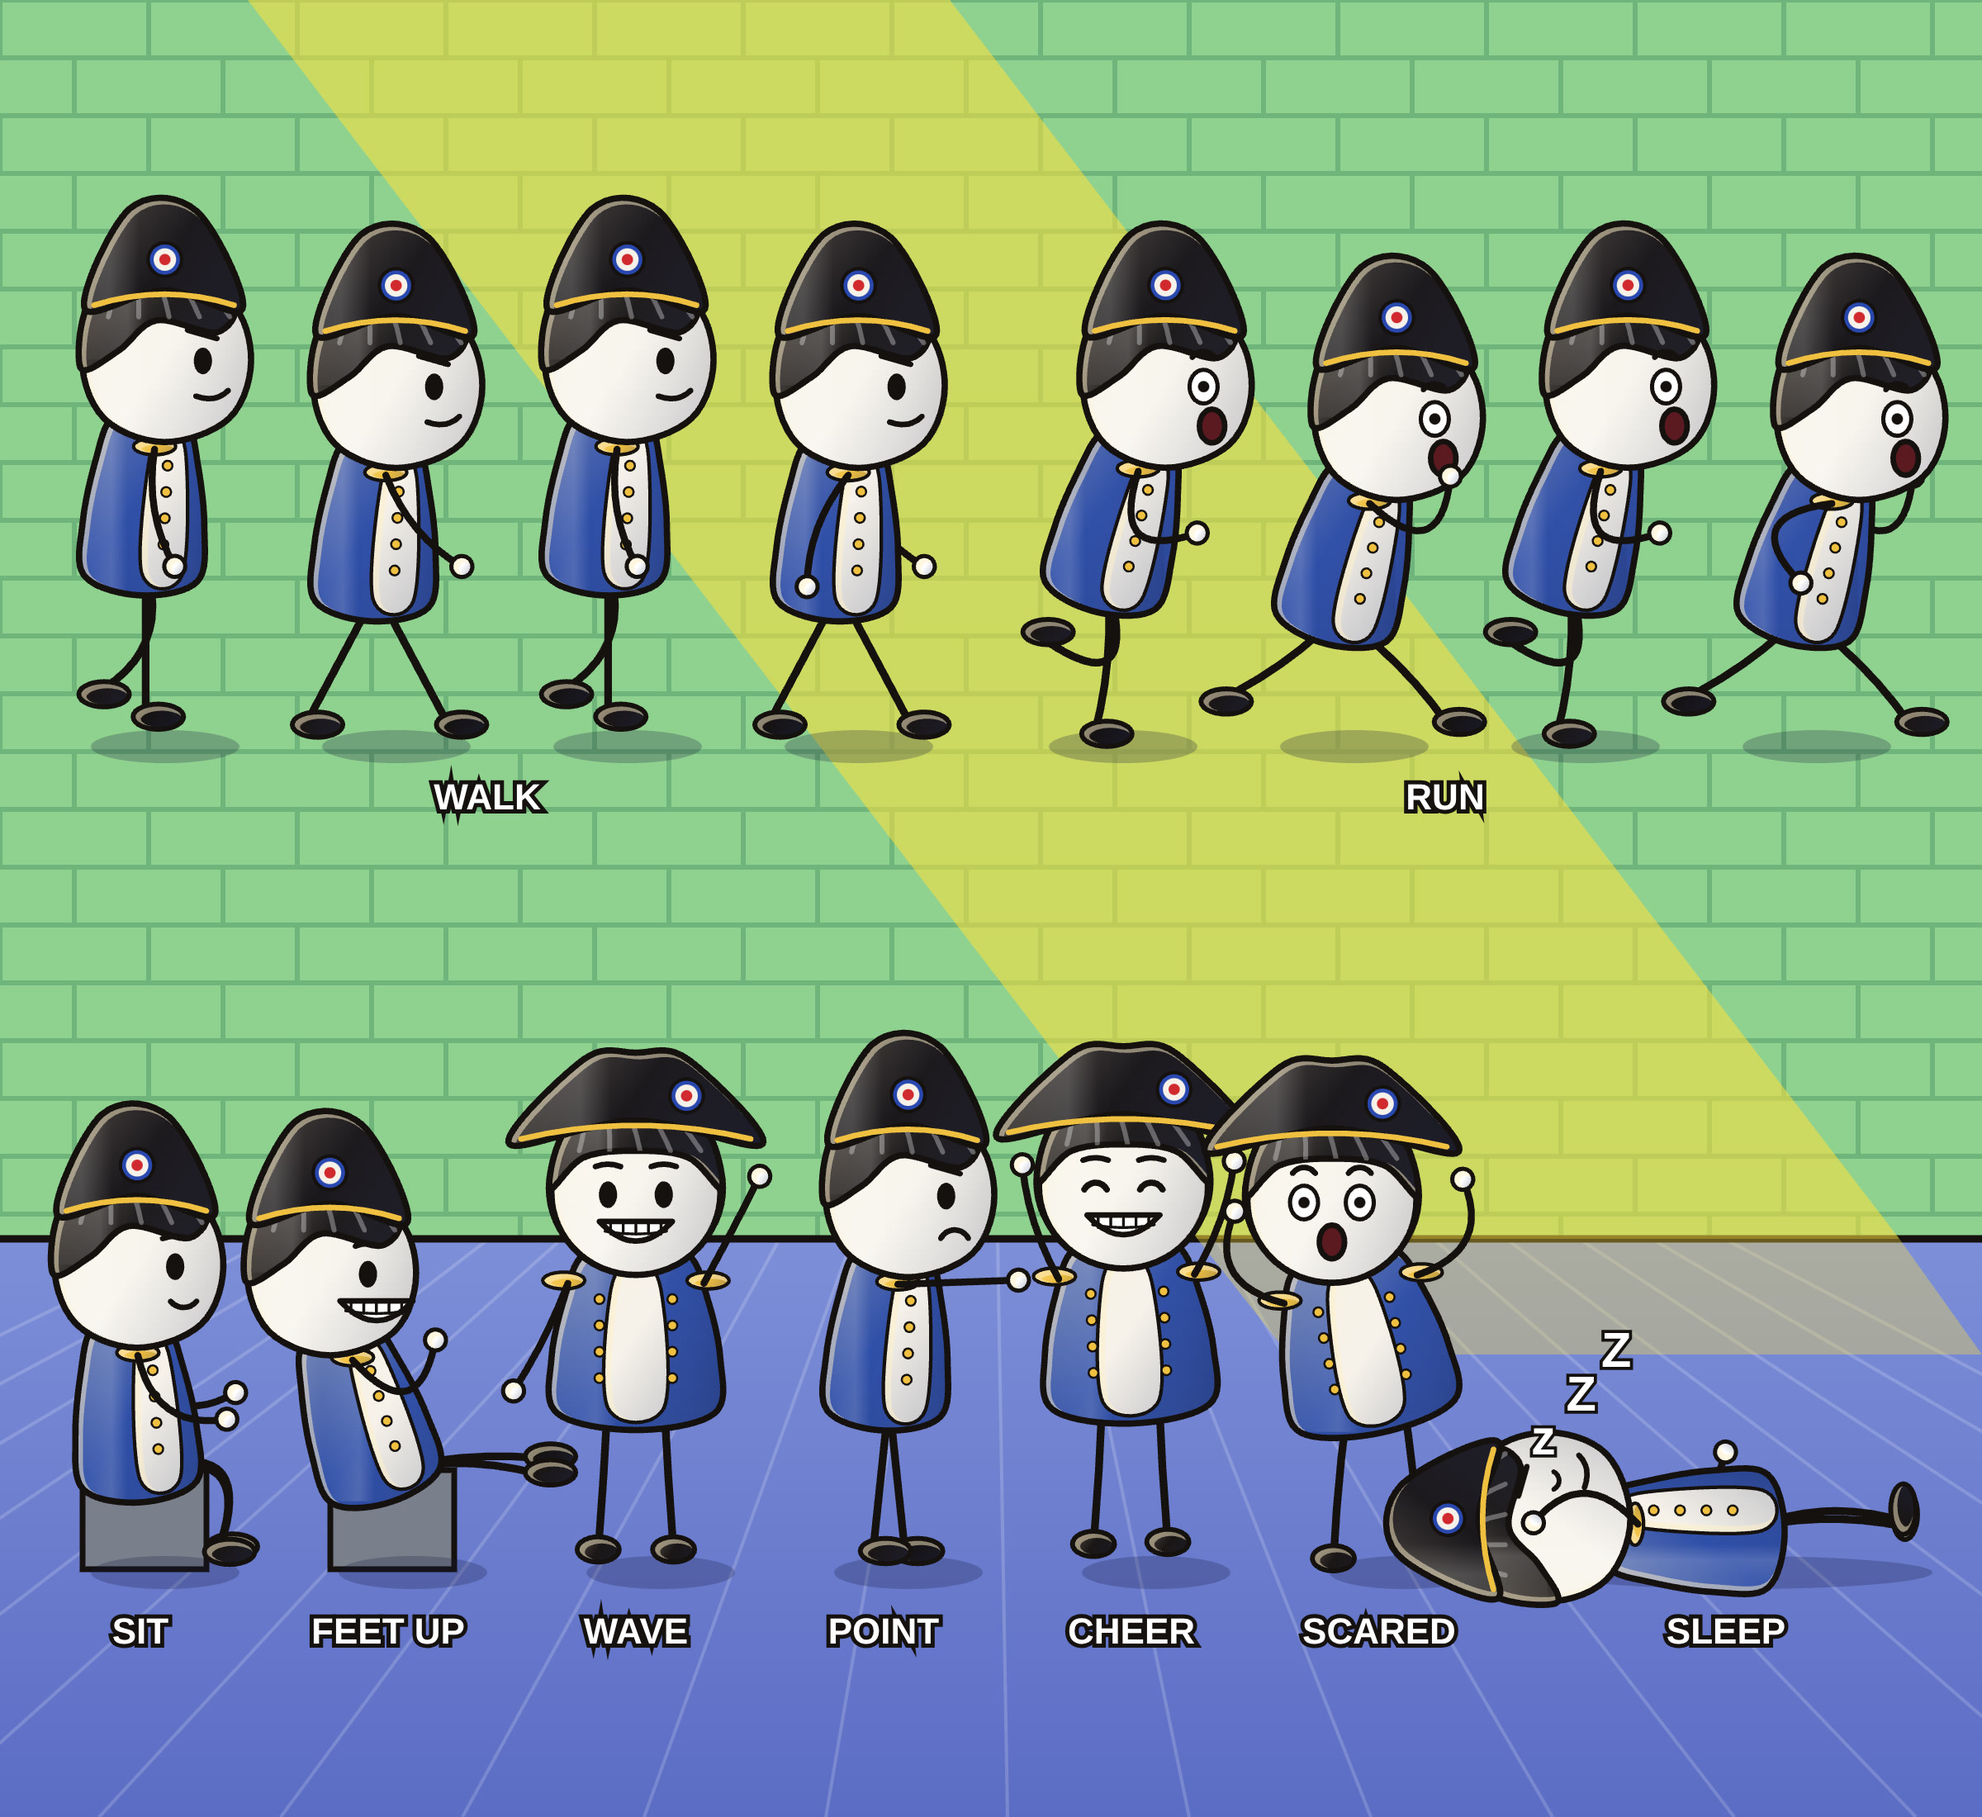
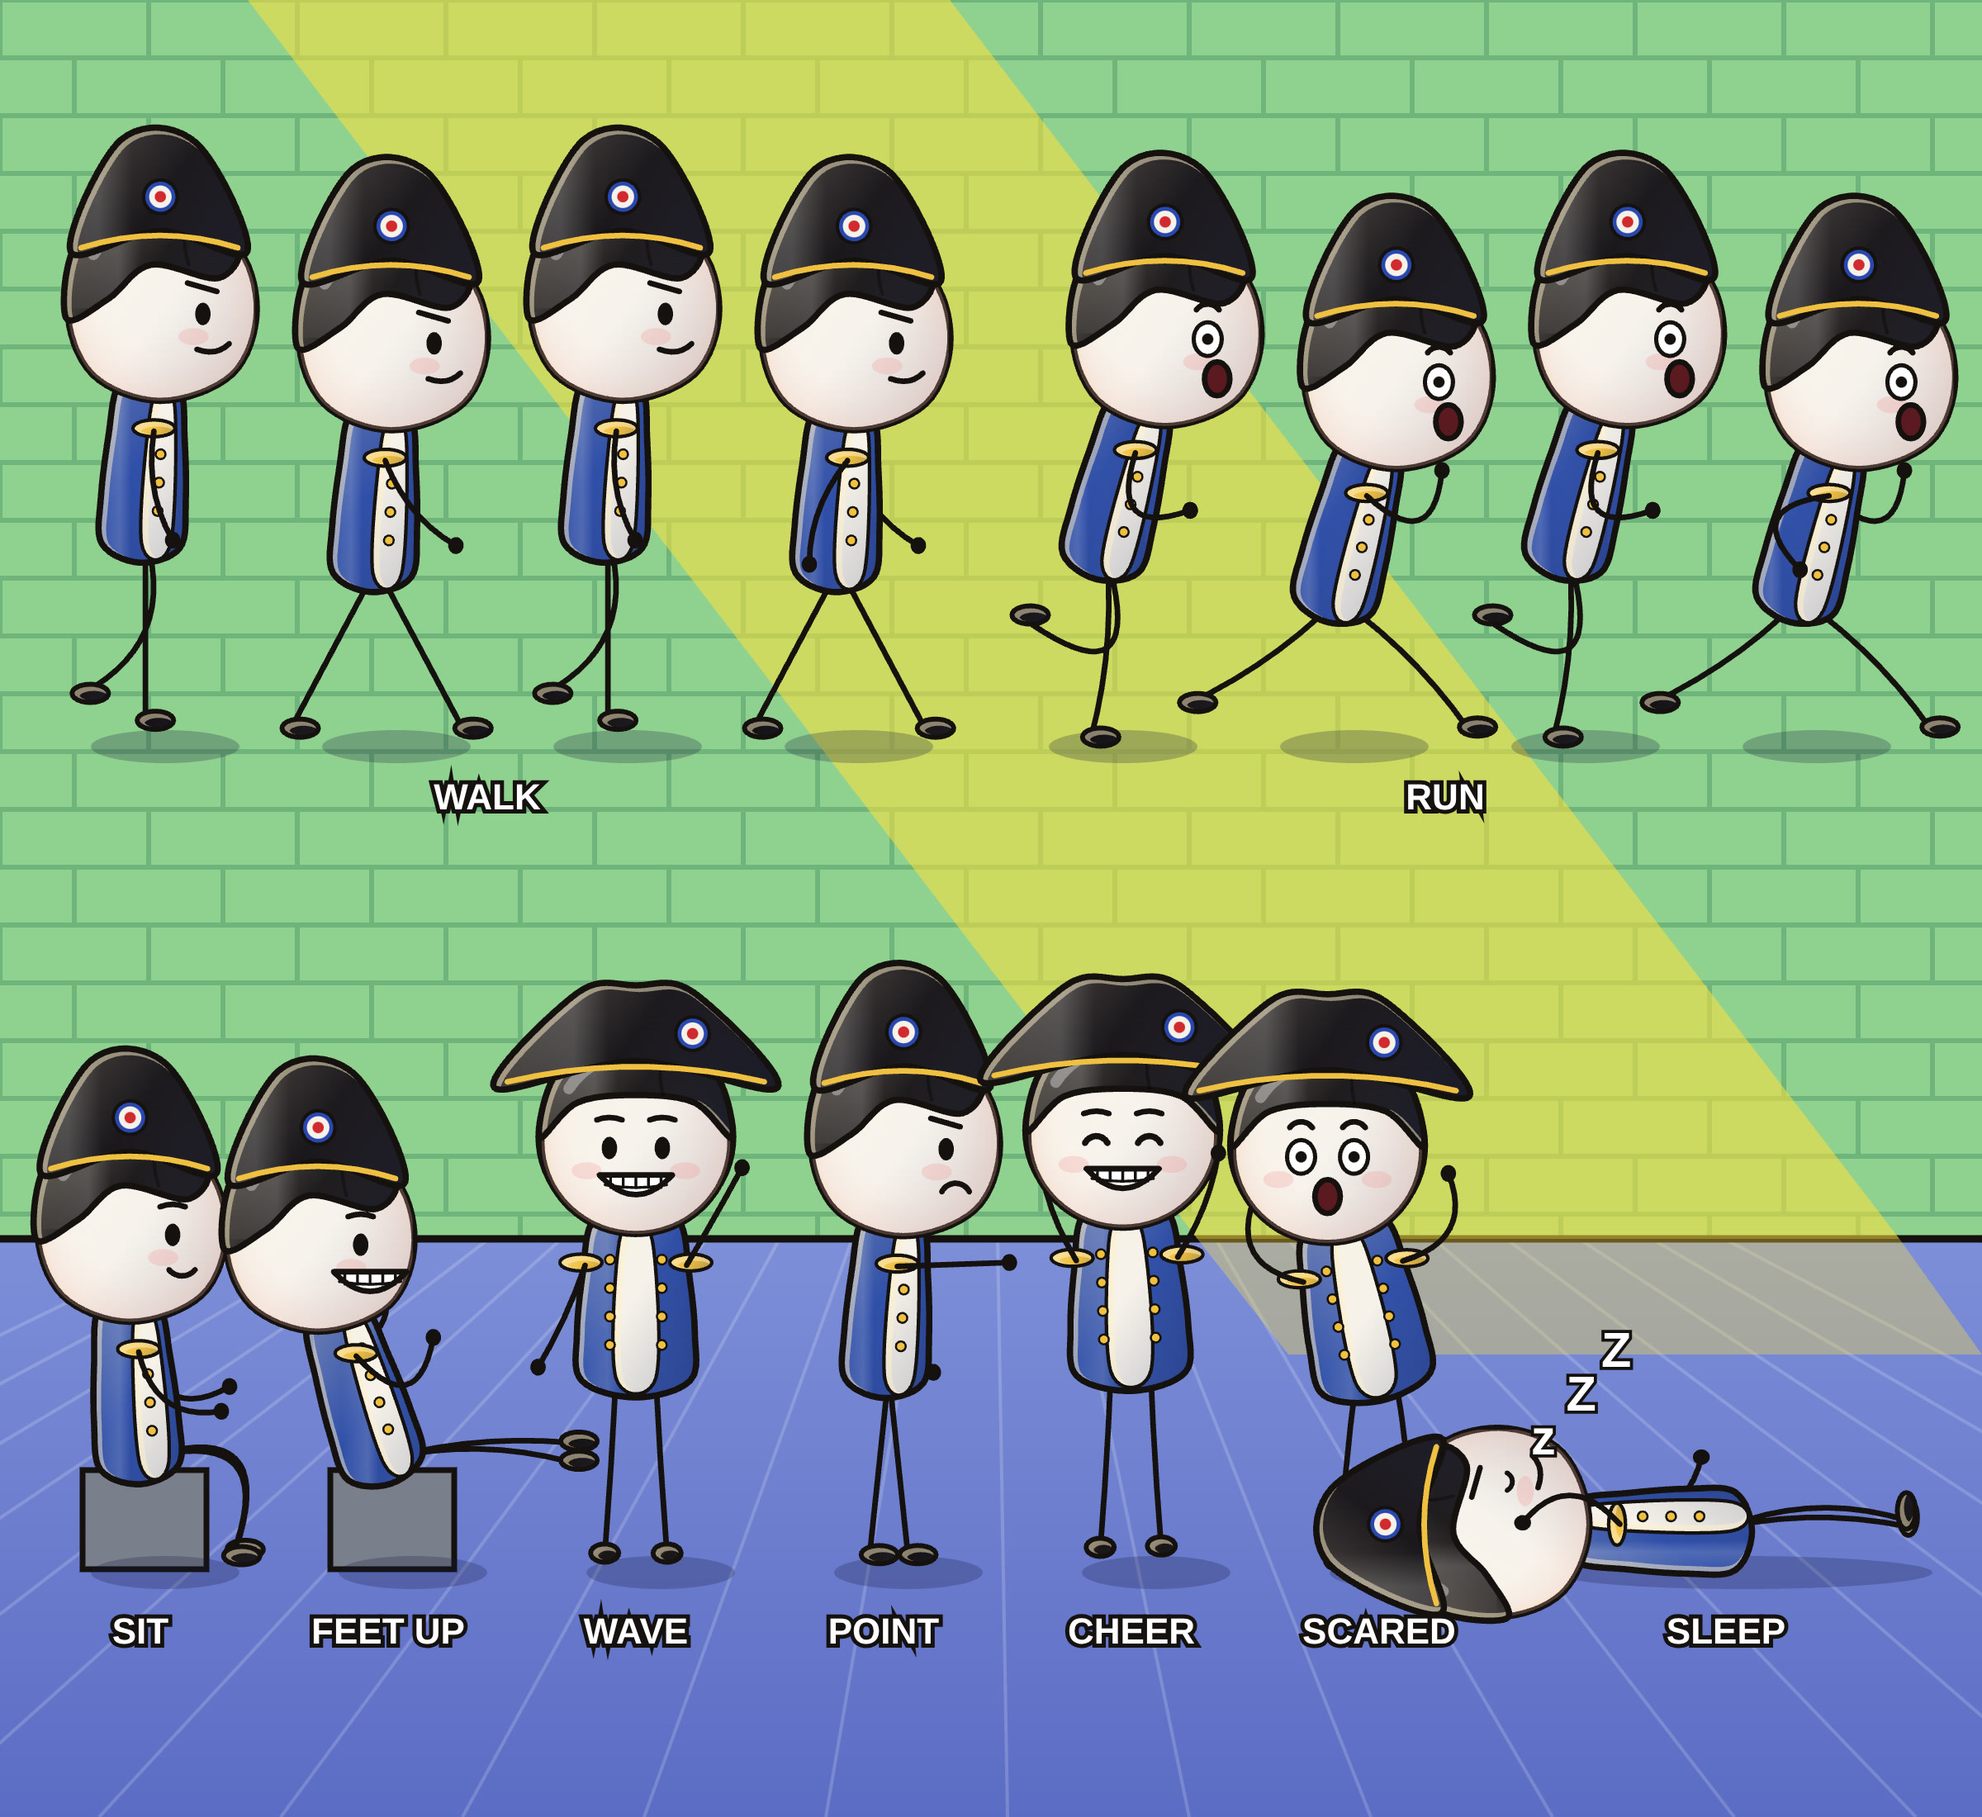
Video 18: characters reworked to the reference drawing style (narrow bean body, big head, glossy hair, thin limbs)
Claude-Session: https://claude.ai/code/session_01Q4bYRoWeHLz4Sfdu9inVyj

diff --git a/rig/bean2.js b/rig/bean2.js
@@ -27,7 +27,7 @@ const P = () => new Path2D();
 const ellP = (x, y, rx, ry, r = 0) => { const p = P(); p.ellipse(x, y, rx, ry, r, 0, Math.PI * 2); return p; };
 const smooth = (pts) => { const p = P(), n = pts.length; p.moveTo(...pts[0]); for (let i = 0; i < n; i++) { const a = pts[(i - 1 + n) % n], b = pts[i], c = pts[(i + 1) % n], d = pts[(i + 2) % n]; p.bezierCurveTo(b[0] + (c[0] - a[0]) / 6, b[1] + (c[1] - a[1]) / 6, c[0] - (d[0] - b[0]) / 6, c[1] - (d[1] - b[1]) / 6, c[0], c[1]); } p.closePath(); return p; };
 // noodle limb: smooth curve through 3 points, ink stroke with a thin coloured core (sleeve) at the top
-function noodle(g, a, b, c, w = 10) {
+function noodle(g, a, b, c, w = 8) {
   g.save(); g.lineCap = "round"; g.lineJoin = "round"; g.strokeStyle = INK; g.lineWidth = w;
   g.beginPath(); g.moveTo(...a); g.quadraticCurveTo(b[0] * 2 - (a[0] + c[0]) / 2, b[1] * 2 - (a[1] + c[1]) / 2, ...c); g.stroke(); g.restore();
 }
@@ -51,7 +51,7 @@ export const MOVES = {
 
 export function drawBean(g, sp, pose, opt = {}) {
   const sun = { a: rad(opt.sunDeg ?? 215), k: opt.sunK ?? 1, shaft: opt.shaft }, side = opt.view === "side", C = sp.colors;
-  const W = sp.wide ?? 1.0, legL = 125 * (sp.legs ?? 1), bodyH = 250 * (sp.tall ?? 1), bodyW = 118 * W, headR = 118 * (sp.head ?? 1);
+  const W = sp.wide ?? 1.0, legL = 150 * (sp.legs ?? 1), bodyH = 270 * (sp.tall ?? 1), bodyW = 84 * W, headR = 132 * (sp.head ?? 1);
   g.save(); if (pose.lie) { g.translate(0, -60); g.rotate(-Math.PI / 2); }
   let hipY = -legL * Math.max(Math.cos(rad(pose.hipL)), Math.cos(rad(pose.hipR))) * 1.85 + (pose.bob || 0);
   if (pose.seat) hipY = -legL * 0.95; if (pose.lie) hipY = -legL * 1.85;
@@ -59,23 +59,24 @@ export function drawBean(g, sp, pose, opt = {}) {
   const up = [Math.sin(lean), -Math.cos(lean)];
   const at = (u, v) => [hip[0] + up[0] * v + Math.cos(lean) * u, hip[1] + up[1] * v + Math.sin(lean) * u];
   // legs: noodles to shoes
-  const leg = (s, ha, ka) => { const h = at(side ? s * 6 : s * 40, 30), k = fk(h, side ? ha : s * 4 + ha * 0.2, legL * 0.95), f = fk(k, side ? ha + ka : s * 4, legL * 0.95); return [h, k, f]; };
-  const shoe = (f, far) => { const p = side ? ellP(f[0] + 18, f[1] - 2, 36, 18) : ellP(f[0], f[1] - 4, 30, 18); fillLit(g, p, far ? mix(C.shoes, "#000000", 0.2) : C.shoes, sun, { x: f[0] - 40, y: f[1] - 25, w: 90, h: 30 }, { ol: 7, sheen: false }); };
+  const leg = (s, ha, ka) => { const h = at(side ? s * 6 : s * 28, 26), k = fk(h, side ? ha : s * 4 + ha * 0.2, legL * 0.95), f = fk(k, side ? ha + ka : s * 4, legL * 0.95); return [h, k, f]; };
+  const shoe = (f, far) => { const p = side ? ellP(f[0] + 14, f[1] - 2, 26, 13) : ellP(f[0], f[1] - 4, 20, 13); fillLit(g, p, far ? mix(C.shoes, "#000000", 0.2) : C.shoes, sun, { x: f[0] - 40, y: f[1] - 25, w: 90, h: 30 }, { ol: 7, sheen: false }); };
   const L = leg(side ? 1 : -1, pose.hipL, pose.kneeL), R = leg(1, pose.hipR, pose.kneeR);
-  const sh = (s) => at(side ? 10 : s * bodyW * 0.82, bodyH * 0.78);
-  const arm = (s, sa, ea) => { const o = sh(s), aa = side ? sa : s * (12 + Math.abs(sa) * 0.85), e = fk(o, aa, 88), w = fk(e, side ? sa - ea : aa + s * -Math.min(0, ea) * 0.6, 84); return [o, e, w]; };
+  const sh = (s) => at(side ? 10 : s * bodyW * 0.86, bodyH * 0.66);
+  const arm = (s, sa, ea) => { const o = sh(s), aa = side ? sa : s * (10 + Math.abs(sa) * 0.85), e = fk(o, aa, 82), w = fk(e, side ? sa - ea : aa + s * -Math.min(0, ea) * 0.6, 78); return [o, e, w]; };
   const AL = arm(-1, pose.shL, pose.elL), AR = arm(1, pose.shR, pose.elR);
-  const hand = (p) => { fillLit(g, ellP(p[0], p[1], 15, 15), sp.gloves || "#ffffff", sun, { x: p[0] - 15, y: p[1] - 15, w: 30, h: 30 }, { ol: 6, sheen: false }); };
+  const hand = (p) => { g.fillStyle = INK; g.beginPath(); g.ellipse(p[0], p[1], 11, 12, 0, 0, 7); g.fill(); };
   if (side) { noodle(g, ...AL); hand(AL[2]); }
-  noodle(g, ...L, 11); shoe(L[2], side); noodle(g, ...R, 11); shoe(R[2], false);
+  noodle(g, ...L, 8); shoe(L[2], side); noodle(g, ...R, 8); shoe(R[2], false);
   // peanut body: wider hips, slight waist, rounded shoulders
   const bw = side ? bodyW * 0.72 : bodyW;
-  const body = smooth([at(-bw * 0.95, 10), at(-bw * 1.02, bodyH * 0.35), at(-bw * 0.86, bodyH * 0.7), at(-bw * 0.62, bodyH * 0.95), at(0, bodyH * 1.02), at(bw * 0.62, bodyH * 0.95), at(bw * 0.86, bodyH * 0.7), at(bw * 1.02, bodyH * 0.35), at(bw * 0.95, 10), at(0, -14)]);
+  const body = smooth([at(-bw * 0.92, 14), at(-bw * 1.0, bodyH * 0.3), at(-bw * 0.9, bodyH * 0.62), at(-bw * 0.72, bodyH * 0.9), at(0, bodyH * 1.0), at(bw * 0.72, bodyH * 0.9), at(bw * 0.9, bodyH * 0.62), at(bw * 1.0, bodyH * 0.3), at(bw * 0.92, 14), at(0, -10)]);
   const bb = { x: hip[0] - bw * 1.1, y: hip[1] - bodyH * 1.05, w: bw * 2.2, h: bodyH * 1.1 };
   fillLit(g, body, C.coat, sun, bb);
   // coat details
   g.save(); g.clip(body);
   const fx = side ? bw * 0.35 : 0;
+  if (sp.lapels) for (const s of (side ? [1] : [-1, 1])) { const lp = new Path2D(); const a0 = at(fx + s * bw * 0.05, bodyH * 0.95), a1 = at(fx + s * bw * 0.55, bodyH * 0.9), a2 = at(fx + s * bw * 0.1, bodyH * 0.45); lp.moveTo(...a0); lp.lineTo(...a1); lp.lineTo(...a2); lp.closePath(); g.fillStyle = mix(C.coat, "#000000", 0.25); g.fill(lp); g.lineWidth = 4; g.strokeStyle = INK; g.stroke(lp); }
   if (sp.vest) { const v = smooth([at(fx - bw * 0.34, 18), at(fx - bw * 0.3, bodyH * 0.75), at(fx, bodyH * 0.9), at(fx + bw * 0.3, bodyH * 0.75), at(fx + bw * 0.34, 18)]); fillLit(g, v, C.vest, sun, bb, { ol: 5, sheen: false }); }
   if (sp.tie) { const t = smooth([at(fx - 9, bodyH * 0.8), at(fx + 9, bodyH * 0.8), at(fx + 14, bodyH * 0.36), at(fx, bodyH * 0.28), at(fx - 14, bodyH * 0.36)]); fillLit(g, t, C.tie, sun, bb, { ol: 4, sheen: false }); }
   if (sp.sash) { g.lineWidth = 30; g.strokeStyle = C.sash; g.beginPath(); g.moveTo(...at(-bw, bodyH * 0.85)); g.lineTo(...at(bw, bodyH * 0.2)); g.stroke(); g.lineWidth = 4; g.strokeStyle = INK; }
@@ -86,7 +87,7 @@ export function drawBean(g, sp, pose, opt = {}) {
   if (sp.epaulettes) for (const s of (side ? [1] : [-1, 1])) { const p = sh(s); fillLit(g, ellP(p[0] + (side ? 0 : s * 6), p[1] - 4, 30, 12), C.gold, sun, { x: p[0] - 30, y: p[1] - 16, w: 60, h: 24 }, { ol: 5, sheen: false }); }
   if (!side) { noodle(g, ...AL); hand(AL[2]); }
   // head: big flat face circle sitting on the shoulders
-  const hc = at(side ? 18 : 0, bodyH * 0.9 + headR * 0.82);
+  const hc = at(side ? 10 : 0, bodyH * 0.92 + headR * 0.78);
   drawHead(g, sp, hc, headR, sun, side, pose, opt);
   noodle(g, ...AR); hand(AR[2]);
   if (opt.prop === "musket") { g.save(); g.lineCap = "round"; g.lineWidth = 16; g.strokeStyle = INK; const w = AR[2]; g.beginPath(); g.moveTo(w[0] - 40, w[1] + 120); g.lineTo(w[0] + 60, w[1] - 260); g.stroke(); g.lineWidth = 9; g.strokeStyle = "#6a4426"; g.stroke(); g.restore(); }
@@ -95,27 +96,31 @@ export function drawBean(g, sp, pose, opt = {}) {
 }
 
 function drawHead(g, sp, c, r, sun, side, pose, opt) {
-  const C = sp.colors, [x, y] = c, face = sp.face || "#f8f5ee";
+  const C = sp.colors, [x, y] = c, face = sp.face || "#f7f3ec";
   if (sp.hair && !side) { const hb = ellP(x, y - r * 0.06, r * 1.03, r * 1.0); fillLit(g, hb, C.hair, sun, { x: x - r, y: y - r, w: 2 * r, h: 2 * r }, { ol: 9 }); }
   const fp = side ? smooth([[x - r * 0.98, y], [x - r * 0.7, y - r * 0.72], [x, y - r * 1.0], [x + r * 0.78, y - r * 0.68], [x + r * 1.02, y + r * 0.02], [x + r * 0.76, y + r * 0.7], [x, y + r * 0.98], [x - r * 0.72, y + r * 0.7]]) : ellP(x, y, r, r * 0.97);
-  fillLit(g, fp, face, { a: sun.a, k: sun.k * 0.55, shaft: sun.shaft }, { x: x - r, y: y - r, w: 2 * r, h: 2 * r }, { ol: 9 });
+  fillLit(g, fp, face, { a: sun.a, k: sun.k * 0.55, shaft: sun.shaft }, { x: x - r, y: y - r, w: 2 * r, h: 2 * r }, { ol: 9, sheen: false });
+  g.save(); g.clip(fp); const rg = g.createRadialGradient(x - r * 0.25, y - r * 0.2, r * 0.3, x, y, r * 1.05); rg.addColorStop(0, "rgba(255,255,255,0)"); rg.addColorStop(1, "rgba(235,170,150,0.28)"); g.fillStyle = rg; g.fillRect(x - r, y - r, 2 * r, 2 * r);
+  for (const s of (side ? [1] : [-1, 1])) { g.fillStyle = "rgba(240,130,130,0.22)"; g.beginPath(); g.ellipse(x + (side ? r * 0.35 : s * r * 0.52), y + r * 0.3, r * 0.16, r * 0.09, 0, 0, 7); g.fill(); }
+  g.restore();
   // hair cap with grey streak highlights (reference style)
   if (sp.hair) {
     const hp = side ? smooth([[x - r * 1.0, y + r * 0.1], [x - r * 0.85, y - r * 0.75], [x, y - r * 1.05], [x + r * 0.8, y - r * 0.7], [x + r * 0.62, y - r * 0.32], [x - r * 0.1, y - r * 0.46], [x - r * 0.55, y - r * 0.1]])
       : smooth([[x - r * 1.02, y - r * 0.05], [x - r * 0.8, y - r * 0.78], [x, y - r * 1.04], [x + r * 0.8, y - r * 0.78], [x + r * 1.02, y - r * 0.05], [x + r * 0.62, y - r * 0.42], [x, y - r * 0.5], [x - r * 0.62, y - r * 0.42]]);
     fillLit(g, hp, C.hair, sun, { x: x - r, y: y - r, w: 2 * r, h: r }, { ol: 9 });
-    g.save(); g.clip(hp); g.strokeStyle = "rgba(255,255,255,0.32)"; g.lineWidth = 7; g.lineCap = "round";
-    for (let k = -2; k <= 2; k++) { g.beginPath(); g.moveTo(x + k * r * 0.26 - 10, y - r * 0.95); g.quadraticCurveTo(x + k * r * 0.3, y - r * 0.75, x + k * r * 0.36 + 6, y - r * 0.5); g.stroke(); }
+    g.save(); g.clip(hp); g.strokeStyle = "rgba(255,255,255,0.35)"; g.lineWidth = r * 0.12; g.lineCap = "round";
+    g.beginPath(); g.arc(x - r * 0.05, y - r * 0.15, r * 0.78, 1.18 * Math.PI, 1.62 * Math.PI); g.stroke();
+    g.strokeStyle = "rgba(0,0,0,0.35)"; g.lineWidth = 5; g.beginPath(); g.moveTo(x + r * 0.28, y - r * 1.0); g.quadraticCurveTo(x + r * 0.22, y - r * 0.7, x + r * 0.3, y - r * 0.46); g.stroke();
     g.restore();
   }
   // face: dot eyes, small brows, mouth (reference: simple, bold)
-  const e = opt.expr || sp.expr || "smile", eyes = side ? [x + r * 0.45] : [x - r * 0.33, x + r * 0.33], ey = y + r * 0.02;
+  const e = opt.expr || sp.expr || "smile", eyes = side ? [x + r * 0.45] : [x - r * 0.28, x + r * 0.28], ey = y + r * 0.06;
   g.lineCap = "round"; g.strokeStyle = INK; g.fillStyle = INK;
   for (const ex of eyes) {
     if (pose.lie || e === "sleep") { g.lineWidth = 7; g.beginPath(); g.arc(ex, ey, 14, 0.15 * Math.PI, 0.85 * Math.PI); g.stroke(); }
     else if (e === "laugh") { g.lineWidth = 9; g.beginPath(); g.arc(ex, ey + 10, 18, 1.15 * Math.PI, 1.85 * Math.PI); g.stroke(); }
     else if (e === "shock") { g.fillStyle = "#fff"; g.beginPath(); g.ellipse(ex, ey, 20, 24, 0, 0, 7); g.fill(); g.lineWidth = 6; g.stroke(); g.fillStyle = INK; g.beginPath(); g.arc(ex, ey, 8, 0, 7); g.fill(); }
-    else { g.beginPath(); g.ellipse(ex, ey, 13, 19, 0, 0, 7); g.fill(); }
+    else { g.beginPath(); g.ellipse(ex, ey, 11, 16, 0, 0, 7); g.fill(); }
     g.lineWidth = 8; g.beginPath();
     if (e === "angry" || e === "smug") { g.moveTo(ex - 22, ey - 44); g.lineTo(ex + 20, ey - 32); } else if (e === "shock") { g.arc(ex, ey - 30, 20, 1.2 * Math.PI, 1.8 * Math.PI); } else { g.moveTo(ex - 18, ey - 40); g.quadraticCurveTo(ex, ey - 47, ex + 18, ey - 40); }
     g.stroke();

diff --git a/rig/sheet18b.html b/rig/sheet18b.html
@@ -18,11 +18,11 @@ const shadow = (x, y, w) => { g.fillStyle = "rgba(20,24,60,0.25)"; g.beginPath()
 const label = (t, x, y) => { g.save(); g.font = "bold 44px Arial"; g.textAlign = "center"; g.lineWidth = 10; g.strokeStyle = "#15110f"; g.strokeText(t, x, y); g.fillStyle = "#ffffff"; g.fillText(t, x, y); g.restore(); };
 if (MODE === "cast") {
   Object.keys(CAST).forEach((n, i) => { const x = 250 + i * 470, sp = CAST[n];
-    shadow(x, 1080, 120); put(x, 1080, 1.05, () => drawBean(g, sp, MOVES.stand(), {}));
-    label(sp.name, x, 1145);
-    shadow(x, 1960, 95); put(x, 1960, 0.9, () => drawBean(g, sp, n === "napoleon" ? MOVES.point() : MOVES.stand(), { view: "side", prop: n === "hunter" || n === "grenadier" ? "musket" : null }));
+    shadow(x, 1010, 110); put(x, 1010, 0.92, () => drawBean(g, sp, MOVES.stand(), {}));
+    label(sp.name, x, 1075);
+    shadow(x - 60, 2080, 85); put(x - 60, 2080, 0.8, () => drawBean(g, sp, n === "napoleon" ? MOVES.point() : MOVES.stand(), { view: "side", prop: n === "hunter" || n === "grenadier" ? "musket" : null }));
   });
-  ["#ffffff", "#d8c0a2", "#9a8574", "#f2e6d8", "#6f5d50"].forEach((c, k) => { shadow(120 + k * 470, 2140, 70); put(180 + k * 470, 2140, 0.6, () => drawBunny(g, c, {})); });
+  ["#ffffff", "#d8c0a2", "#9a8574", "#f2e6d8", "#6f5d50"].forEach((c, k) => { shadow(370 + k * 470, 2140, 55); put(380 + k * 470, 2140, 0.5, () => drawBunny(g, c, {})); });
 } else {
   const sp = CAST.napoleon;
   [0, 0.25, 0.5, 0.75].forEach((t, k) => { shadow(170 + k * 280, 900, 90); put(170 + k * 280, 900, 0.85, () => drawBean(g, sp, MOVES.walk(t), { view: "side" })); }); label("WALK", 590, 980);
